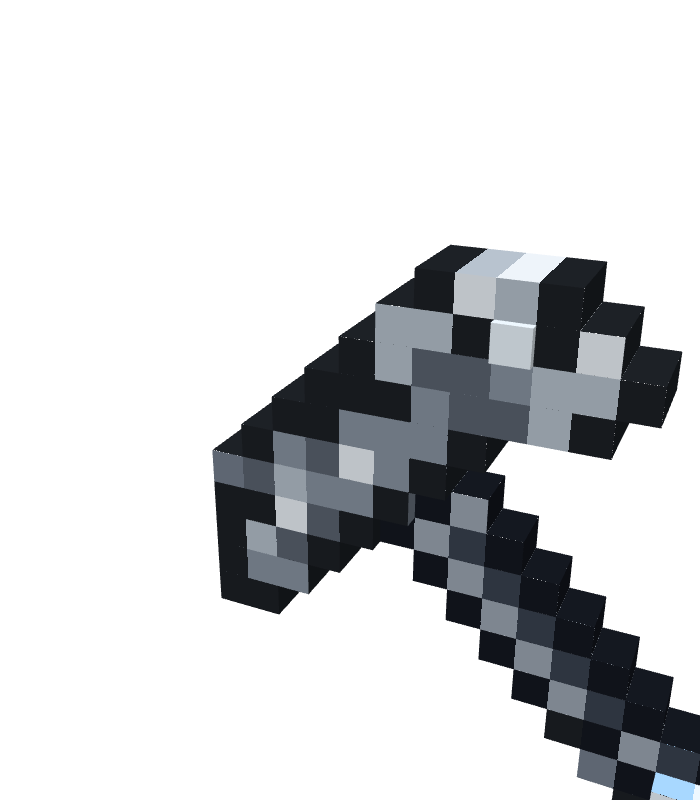
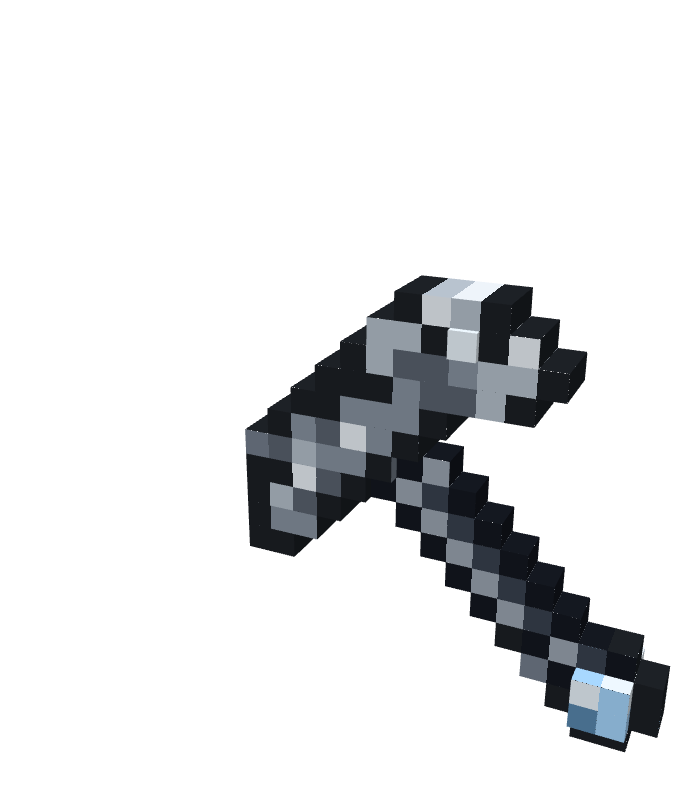
Moonsteel: Blockbench models and renders for all 5 3D tools
Adds the axe, shovel and hoe 3D models and renders (sword and pickaxe were
already here) plus a line-up of all five, matching what ships on 1.21.x.

Changed region(s): [[0.3, 0.2812, 1.0, 1.0]]

diff --git a/docs/asset-collection-1.21.1/armour/moonsteel/chunky-shell/README.md b/docs/asset-collection-1.21.1/armour/moonsteel/chunky-shell/README.md
@@ -7,10 +7,10 @@ Implements `moonsteel_3d_design_sheet.png` (armor and tools in 3D) and
 | --- | --- |
 | `moonsteel_chunky_shell.bbmodel` | Blockbench project of the GeckoLib armor: vanilla boxes + shell cubes on the armor bones |
 | `moonsteel.geo.json`, `moonsteel.png`, `moonsteel_glowmask.png` | The exact files shipped on `1.21.x` (`geckolib/models/item/armor/`, `textures/item/armor/`) |
-| `moonsteel_sword_3d.bbmodel`, `moonsteel_pickaxe_3d.bbmodel` | 3D held-tool models (axe, shovel, hoe follow the same rules) |
+| `moonsteel_{sword,pickaxe,axe,shovel,hoe}_3d.bbmodel` | 3D held-tool models for all 5 Moonsteel tools |
 | `chunky_shell_front.png`, `chunky_shell_back.png` | Blockbench renders of the armor |
 | `trim_preview_crater_solvanite_*.png` | Crater pattern in Solvanite on the shell, drawn the way `ZGGeoArmorRenderer` draws trims in game |
-| `tool_sword_3d.png`, `tool_pickaxe_3d.png` | Blockbench renders of the 3D tools |
+| `tools_3d_lineup.png`, `tool_*_3d.png` | Blockbench renders of all 5 3D tools |
 | `gen_armor.py` | Generates the geo model, texture and glowmask (edit cubes/palette here, then re-run) |
 | `gen_tools.py` | Generates the 3D tool models from the 16x16 sprites |
 
